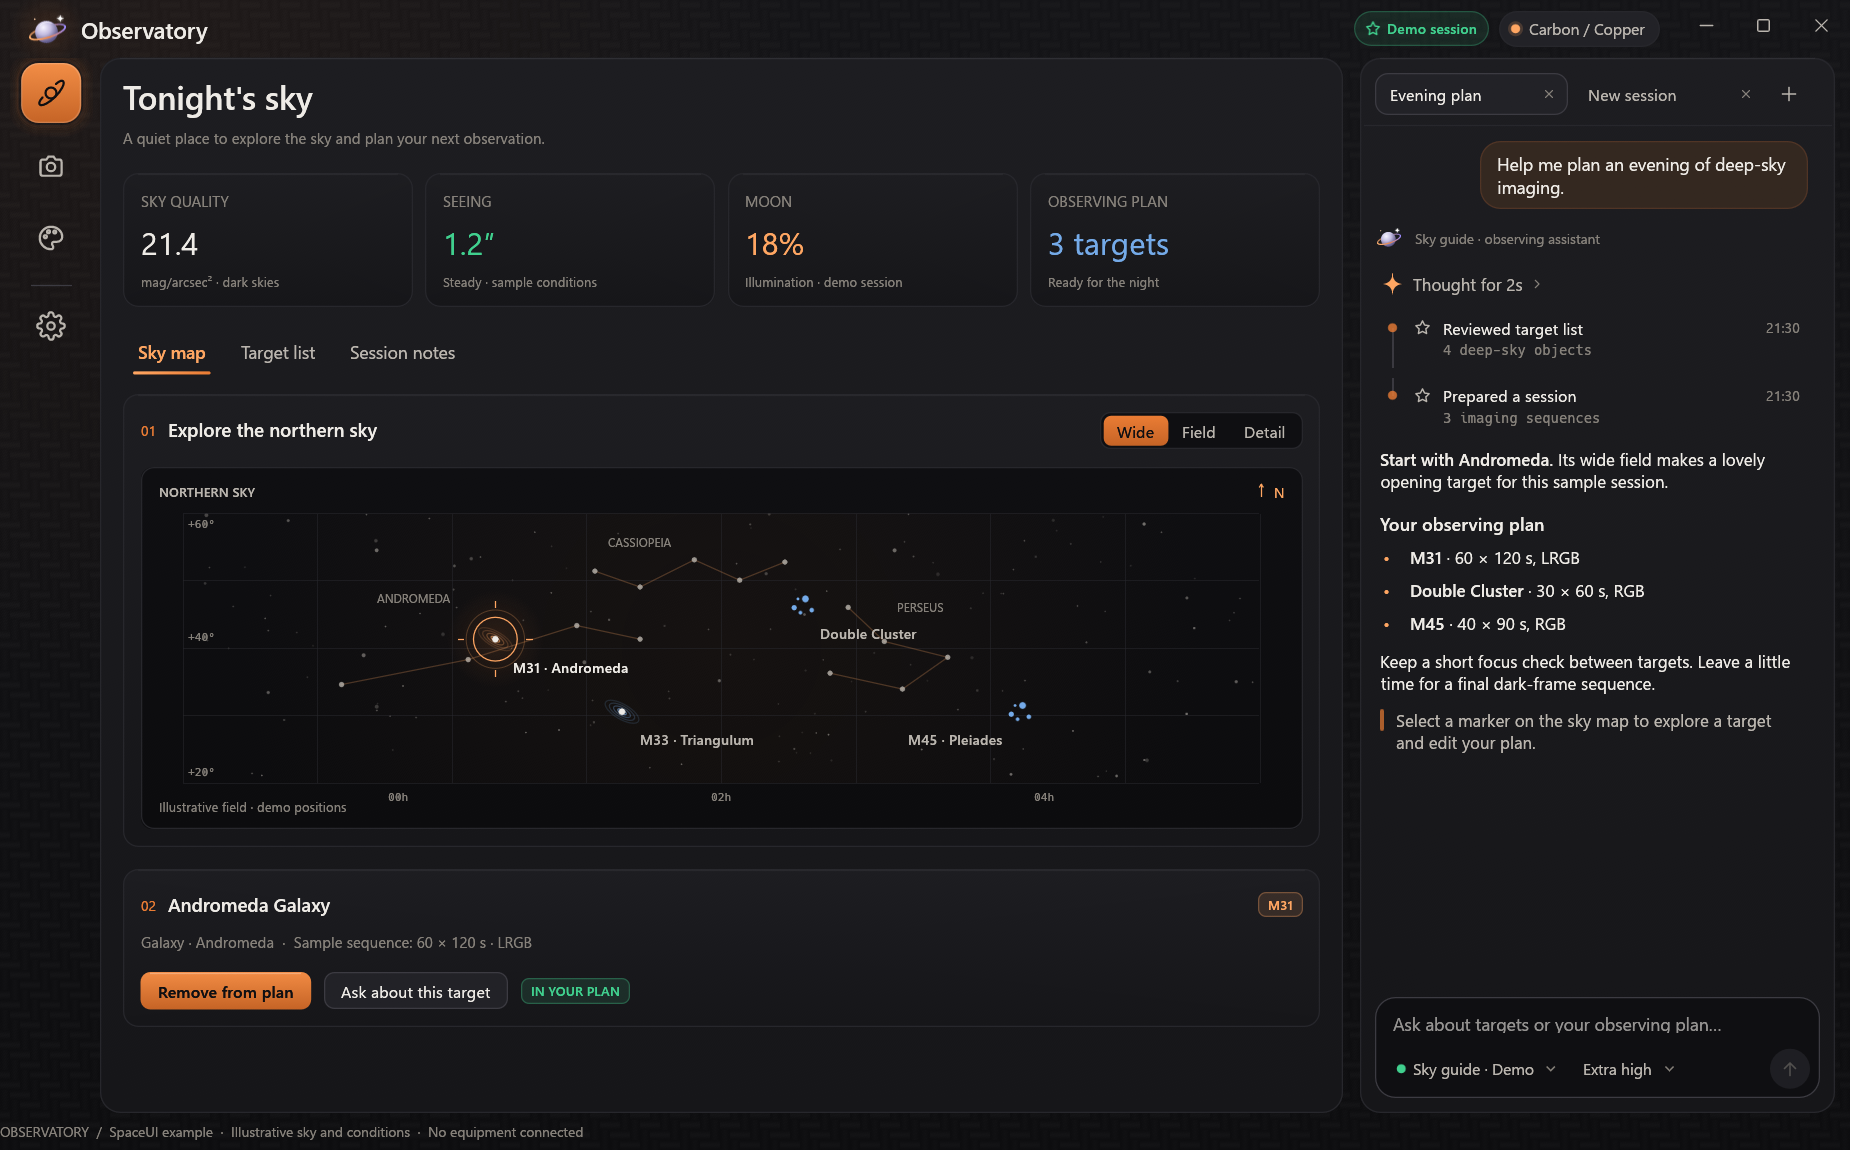
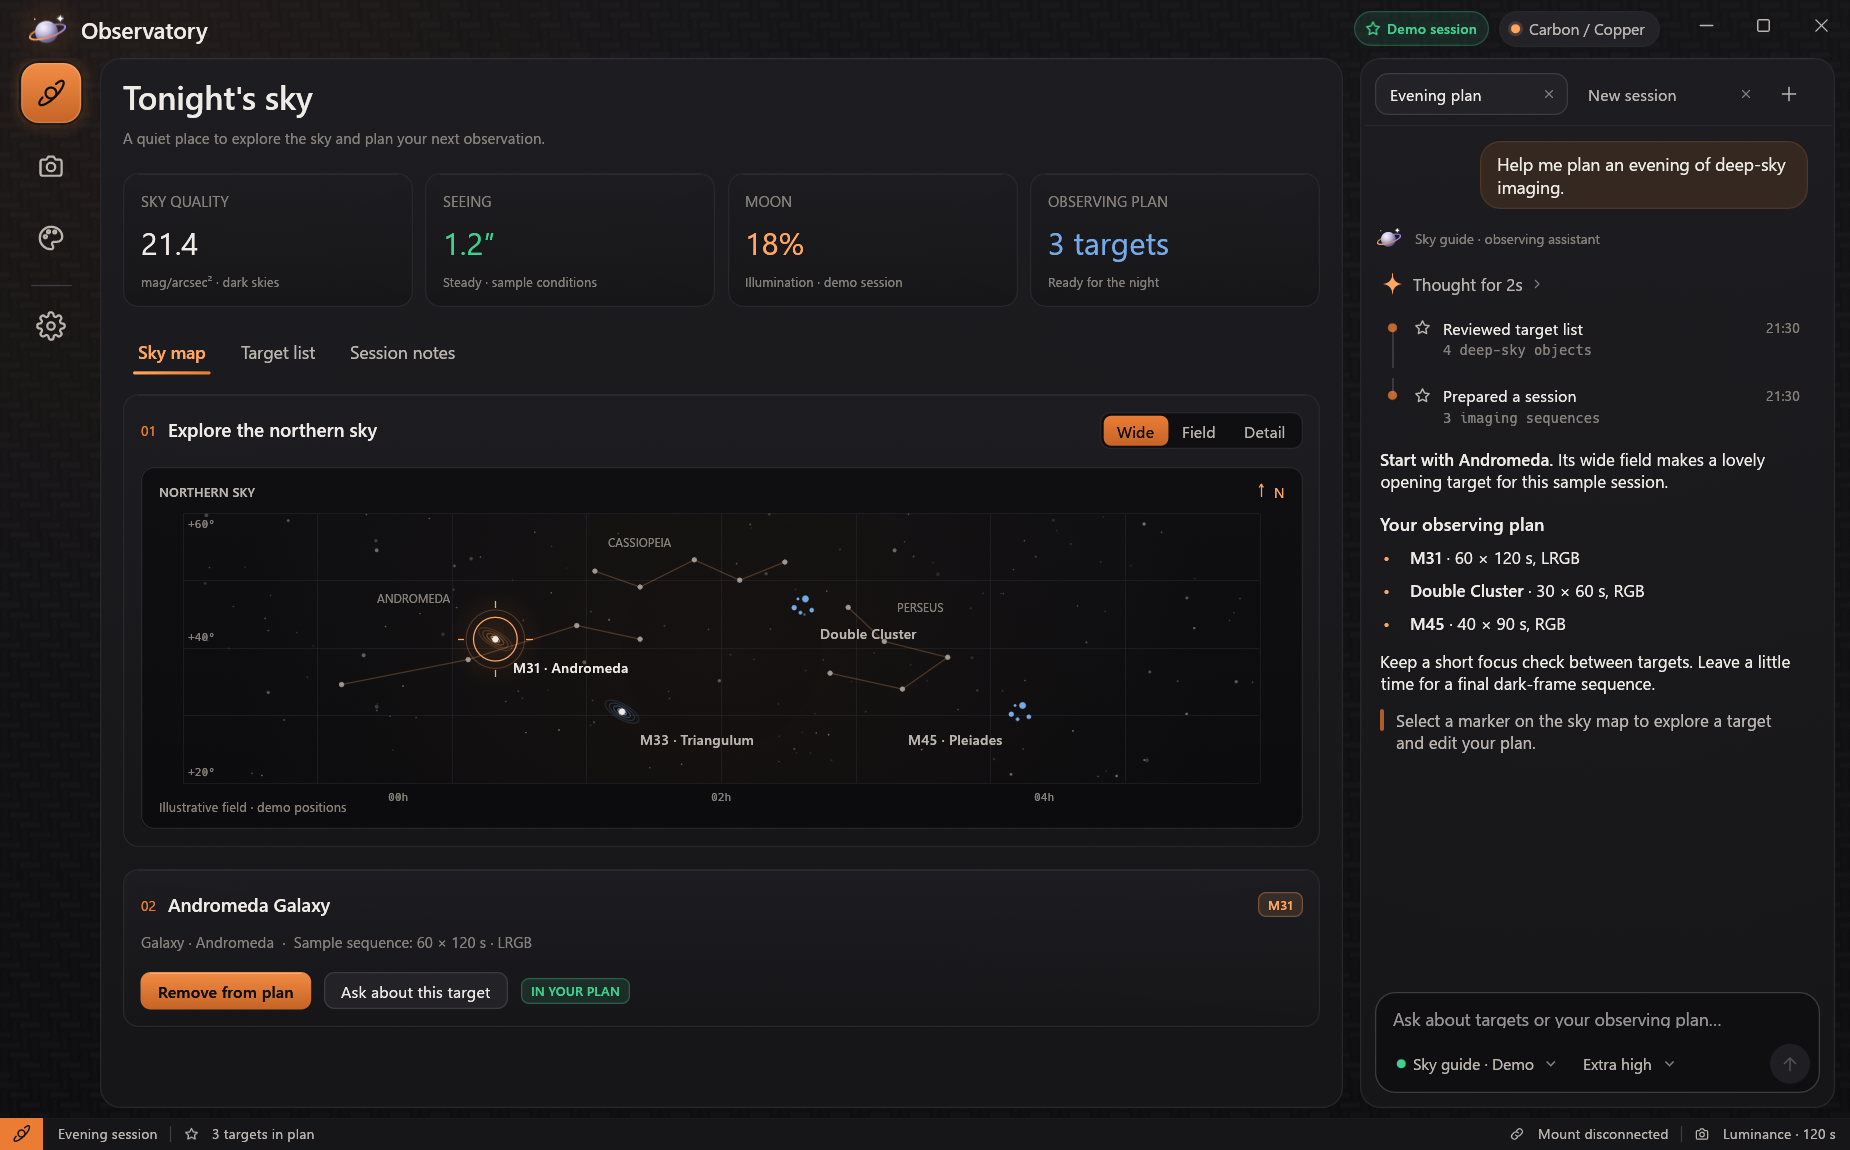
Replace gallery footer with a compact status bar

diff --git a/examples/gallery.rs b/examples/gallery.rs
@@ -27,6 +27,8 @@ const RAIL: &[RailItem] = &[
 ];
 const EFFORTS: [&str; 5] = ["Low", "Medium", "High", "Extra high", "Max"];
 const EXPOSURES: [&str; 5] = ["15 s", "30 s", "60 s", "120 s", "300 s"];
+const FILTERS: [&str; 4] = ["Luminance", "Red", "Green", "Blue"];
+const STATUS_HEIGHT: f32 = 26.0;
 const TARGETS: [(&str, &str, &str, &str); 4] = [
     ("M31", "Andromeda Galaxy", "Galaxy · Andromeda", "60 × 120 s · LRGB"),
     ("M45", "The Pleiades", "Open cluster · Taurus", "40 × 90 s · RGB"),
@@ -311,7 +313,7 @@ impl Gallery {
                 ui.add_space(8.0);
                 widgets::section(ui, "04", "Imaging workflow");
                 widgets::tabs(ui, &mut self.capture_mode, &["Capture", "Calibration", "Review"]);
-                widgets::segmented(ui, &mut self.filter, &["Luminance", "Red", "Green", "Blue"]);
+                widgets::segmented(ui, &mut self.filter, &FILTERS);
                 ui.add_space(8.0);
                 widgets::caption(ui, "Choose a filter and exposure for your sample sequence.");
             });
@@ -334,6 +336,57 @@ impl Gallery {
                 "The shell takes columns on either side, or both; the chat kit draws into any rectangle.",
             );
         });
+    }
+
+    fn status_bar(&self, ui: &mut egui::Ui, region: egui::Rect) {
+        let palette = Theme::of(ui.ctx()).palette;
+        // The shell's region includes the gap above the bar; leave that clear.
+        let bar = egui::Rect::from_min_max(
+            egui::pos2(region.left(), (region.bottom() - STATUS_HEIGHT).max(region.top())),
+            region.max,
+        );
+        let painter = ui.painter_at(bar);
+        painter.rect_filled(bar, 0.0, palette.panel);
+        painter.hline(bar.x_range(), bar.top(), egui::Stroke::new(1.0, palette.border));
+
+        let badge = egui::Rect::from_min_size(bar.min, vec2(34.0, bar.height()));
+        painter.rect_filled(badge, 0.0, palette.accent);
+        Icon::Orbit.paint(
+            &painter,
+            egui::Rect::from_center_size(badge.center(), egui::Vec2::splat(15.0)),
+            palette.on_accent,
+        );
+        let content = egui::Rect::from_min_max(
+            egui::pos2(badge.right() + 12.0, bar.top()),
+            egui::pos2(bar.right() - 12.0, bar.bottom()),
+        );
+        ui.scope_builder(
+            UiBuilder::new()
+                .id_salt("observatory-status")
+                .max_rect(content)
+                .layout(egui::Layout::left_to_right(egui::Align::Center)),
+            |ui| {
+                ui.spacing_mut().item_spacing.x = 10.0;
+                ui.label(RichText::new("Evening session").size(11.5).color(palette.text_2))
+                    .on_hover_text("Illustrative sky and conditions. This session does not connect to equipment.");
+                if bar.width() >= 600.0 {
+                    status_divider(ui);
+                    let count = self.queued.iter().filter(|queued| **queued).count();
+                    status_item(ui, Icon::Star, &format!("{count} targets in plan"));
+                }
+                ui.with_layout(egui::Layout::right_to_left(egui::Align::Center), |ui| {
+                    if bar.width() >= 800.0 {
+                        status_item(
+                            ui,
+                            Icon::Camera,
+                            &format!("{} · {}", FILTERS[self.filter], EXPOSURES[self.exposure]),
+                        );
+                        status_divider(ui);
+                    }
+                    status_item(ui, Icon::Link, "Mount disconnected");
+                });
+            },
+        );
     }
 
     fn chat_column(&mut self, ui: &mut egui::Ui, column: egui::Rect) {
@@ -409,6 +462,25 @@ impl Gallery {
             chat.send();
         }
     }
+}
+
+fn status_item(ui: &mut egui::Ui, icon: Icon, text: &str) {
+    let palette = Theme::of(ui.ctx()).palette;
+    let right_to_left = ui.layout().main_dir() == egui::Direction::RightToLeft;
+    if right_to_left {
+        ui.label(RichText::new(text).size(11.5).color(palette.text_2));
+    }
+    let (rect, _) = ui.allocate_exact_size(egui::Vec2::splat(13.0), egui::Sense::hover());
+    icon.paint(ui.painter(), rect, palette.text_2);
+    if !right_to_left {
+        ui.label(RichText::new(text).size(11.5).color(palette.text_2));
+    }
+}
+
+fn status_divider(ui: &mut egui::Ui) {
+    let (rect, _) = ui.allocate_exact_size(vec2(1.0, 12.0), egui::Sense::hover());
+    let border = Theme::of(ui.ctx()).palette.border;
+    ui.painter().vline(rect.center().x, rect.y_range(), egui::Stroke::new(1.0, border));
 }
 
 fn show_entry(ui: &mut egui::Ui, entry: &mut Entry, logo: Svg) {
@@ -510,7 +582,7 @@ impl eframe::App for Gallery {
         }
         let theme_name = Theme::of(&ctx).name;
         let mut toggle = false;
-        let shell = Shell::new("Observatory").logo(LOGO).rail(RAIL).status_bar(22.0).title_status(|ui| {
+        let shell = Shell::new("Observatory").logo(LOGO).rail(RAIL).status_bar(STATUS_HEIGHT).title_status(|ui| {
             toggle = widgets::pill(ui, Some(Tone::Accent), theme_name).on_hover_text("Switch theme").clicked();
             widgets::badge(ui, Icon::Star, "Demo session", Tone::Positive);
         });
@@ -535,10 +607,7 @@ impl eframe::App for Gallery {
             self.chat_column(ui, column);
         }
         if let Some(status) = regions.status {
-            let muted = Theme::of(&ctx).palette.muted;
-            let font = egui::FontId::proportional(11.0);
-            let text = "OBSERVATORY  /  SpaceUI example  ·  Illustrative sky and conditions  ·  No equipment connected";
-            ui.painter().text(status.left_center(), egui::Align2::LEFT_CENTER, text, font, muted);
+            self.status_bar(ui, status);
         }
         if let Some(shot) = &mut self.screenshot
             && let Some(Err(error)) = shot.update(&ctx)
